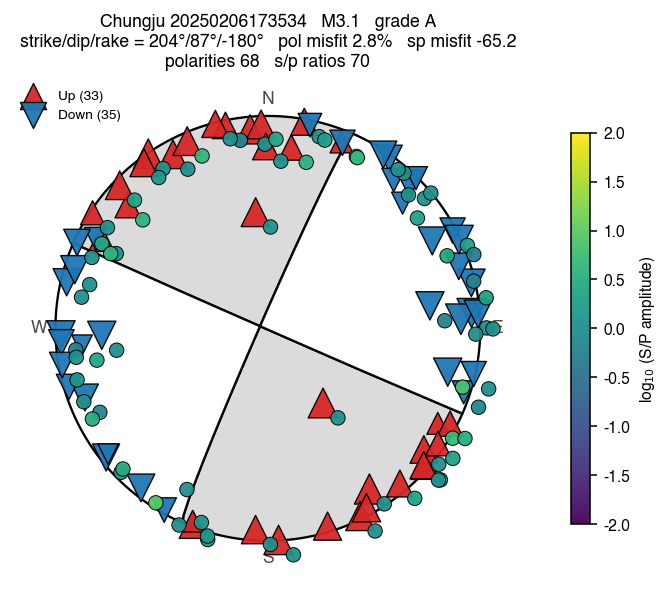
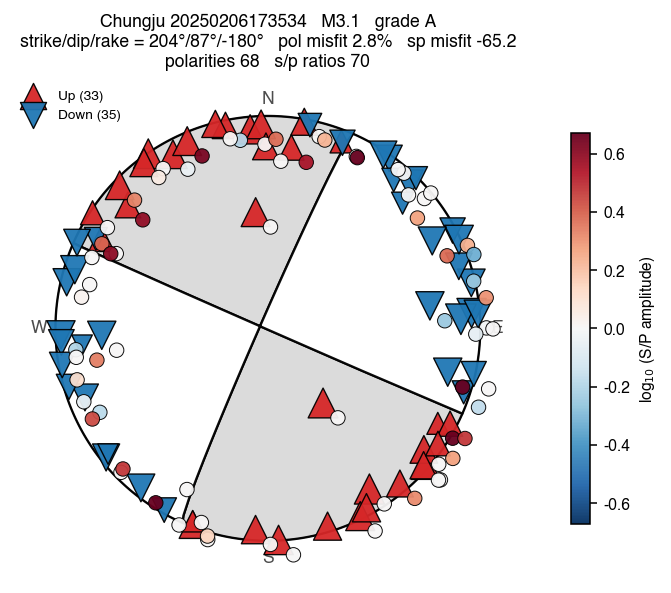
v1.2.0: include_all/show_errors kwargs + S/P color fix + per-stage timings
Four features requested after inspecting v1.1.4 sangju notebook:

1. viz.map_catalog + viz.depth_sections: new `include_all` kwarg overlays events that
   HypoDD's clustering / the bootstrap dropped as hollow squares at their HypoInverse
   (.sum) absolute locations, on top of the dt.cc-relocated set. `show_errors=False`
   skips bootstrap bars for a clean summary view. Wired into build_results_nb as a new
   "Summary view" cell after the headline plot.

2. plot_custom_beachball S/P amplitude color: was clipped to a fixed (-2, +2) but actual
   log10(S/P) values are only -0.3 to +0.8 -- all markers compressed into the middle of
   the viridis ramp, looked identical. Now diverging RdBu_r centred at 0, auto-ranged to
   the actual data's 95th-percentile abs value. The Sangju M3.9 now visibly distinguishes
   high-S/P (red), low-S/P (blue), near-balance (white) stations.

3. pipeline.core.pipeline.run_cluster: each stage individually timed with a
   time.perf_counter() context manager. Per-stage seconds appended to each stage's log
   line, plus a final stage-by-stage table at the end of the run with percentages and a
   TOTAL row. Timings dict returned under `_timings` for downstream consumption.

Verified: sangju default+_main + chungju + changnyeong notebooks regenerated, all 0-error.

diff --git a/pocketquake/build_results_nb.py b/pocketquake/build_results_nb.py
@@ -104,13 +104,27 @@ display(_sty if _sty is not None else "No dt.cc reloc for this run.")""")
 co(r"""viz.map_catalog(cfg, velmodel=VELMODEL, source="sum"); plt.show()
 viz.depth_sections(cfg, velmodel=VELMODEL, source="sum"); plt.show()
 viz.cumulative_events(cfg, velmodel=VELMODEL); plt.show()""")
-co(r"""# headline relocated catalog (dt.cc if present, else dt.ct)
+co(r"""# headline relocated catalog (dt.cc if present, else dt.ct) — bootstrap-filtered
 if os.path.exists(os.path.join(config.dtct_dir(cfg), "hypoDD.reloc")):
     viz.map_catalog(cfg, velmodel=VELMODEL, source="reloc"); plt.show()
     if os.path.exists(os.path.join(config.dtcc_dir(cfg), "hypoDD.reloc")):
         viz.compare_epicenters(cfg, velmodel=VELMODEL); plt.show()   # dt.ct vs dt.cc
 else:
     print("No HypoDD reloc for this run — showing absolute (.sum) locations only.")""")
+
+md("""### Summary view — all events, no bootstrap filtering
+
+A clean overview for presentation: every event in the catalog, the bootstrap-filtered ones as
+filled depth-coloured circles (from the dt.cc reloc), and the events that HypoDD's clustering
+or the bootstrap dropped overlaid as **hollow squares** at their HypoInverse (.sum) absolute
+location. Bootstrap error bars are suppressed — for those, see the headline plot above.""")
+co(r"""# all-events summary view (include the dt.cc-dropped + bootstrap-under-constrained,
+# without bootstrap error bars — a clean representative plot for the whole catalog).
+if os.path.exists(os.path.join(config.dtcc_dir(cfg), "hypoDD.reloc")):
+    viz.map_catalog(cfg, velmodel=VELMODEL, source="reloc",
+                    include_all=True, show_errors=False); plt.show()
+    viz.depth_sections(cfg, velmodel=VELMODEL, source="reloc",
+                       include_all=True, show_errors=False); plt.show()""")
 
 md("""## 2. Picks and first-motion polarity
 

diff --git a/pocketquake/__init__.py b/pocketquake/__init__.py
@@ -16,7 +16,7 @@ Workflow (see `pocketquake.orchestrate.orchestrate`):
         → build & execute `03_results_<cluster>.ipynb`
 """
 
-__version__ = "1.1.4"            # single source of truth — pyproject.toml reads this via setuptools dynamic
+__version__ = "1.2.0"            # single source of truth — pyproject.toml reads this via setuptools dynamic
 
 import os
 

diff --git a/CHANGELOG.md b/CHANGELOG.md
@@ -3,6 +3,45 @@
 Versioning follows [Semantic Versioning](https://semver.org/) (`MAJOR.MINOR.PATCH`).
 The single source of truth is `pocketquake.__version__`; `pyproject.toml` reads it via setuptools dynamic.
 
+## 1.2.0 — 2026-05-31
+
+Four feature requests from inspecting the post-v1.1.4 Sangju notebook:
+
+**Added**
+- **`viz.map_catalog(..., include_all=False, show_errors=True)`** and
+  **`viz.depth_sections(..., include_all=False, show_errors=True)`** — when
+  `include_all=True`, events that HypoDD's clustering or the bootstrap dropped get
+  overlaid as **hollow squares at their HypoInverse (.sum) absolute locations** on top of
+  the dt.cc-relocated set, so you can see the whole catalog in one view. `show_errors=False`
+  skips the bootstrap error bars / ellipsoids — useful for a clean summary plot.
+- **New "Summary view" cell in the generated notebook** (`build_results_nb.py`) using the
+  above kwargs: map + depth sections with every event in the catalog, hollow squares for
+  the events dt.cc dropped, no error bars. Sits right after the bootstrap-filtered headline
+  plot so both are visible side-by-side.
+- **Per-stage timing summary in `pipeline.core.pipeline:run_cluster`**: each stage is
+  individually timed with a `time.perf_counter()` context manager; per-stage seconds are
+  appended to each stage's log line, and a stage-by-stage table prints at the end of the
+  run (e.g. `picking 32.1s 41.2%` + a `TOTAL` row). The timings dict is also returned in
+  the result under the `_timings` key for downstream consumption.
+
+**Fixed**
+- **S/P amplitude colormap contrast** in `plot_custom_beachball`. The previous clip was
+  fixed at `(-2, +2)` for `log10(S/P)`, but the actual data range for sangju / chungju is
+  only **-0.3 to +0.8** (median ≈ 0). All markers compressed into the middle of the
+  viridis ramp → every circle looked the same teal-green shade. Now uses a **diverging
+  RdBu_r colormap centred at 0**, **auto-ranged to the 95th-percentile** of `|log10(S/P)|`
+  in the actual data (with the `sp_log_clip` kwarg acting as an OUTER bound to cap
+  outliers). The Sangju M3.9 beachball now visibly distinguishes stations with high
+  S/P (red), low S/P (blue), and near-balance (white).
+
+**Verified**
+- Sangju + chungju + changnyeong notebooks regenerated (33 / 33 / 33 cells, 0 errors each).
+- Sangju mainshock-treated `_main` notebook (34 cells, 0 errors).
+- The summary view in the sangju notebook now shows all 6 events (4 relocated + 2 hollow
+  squares for the 2018 + 2022 events HypoDD dropped from clustering).
+- The Sangju focal-mechanism gallery (`03_beachball_gallery.png`) and individual M3.9
+  detail figure regenerated to use the new diverging S/P colormap.
+
 ## 1.1.4 — 2026-05-31
 
 Fixes a stale-derivation bug in `viz.fault_sections`'s B-B' across-strike depth section.
